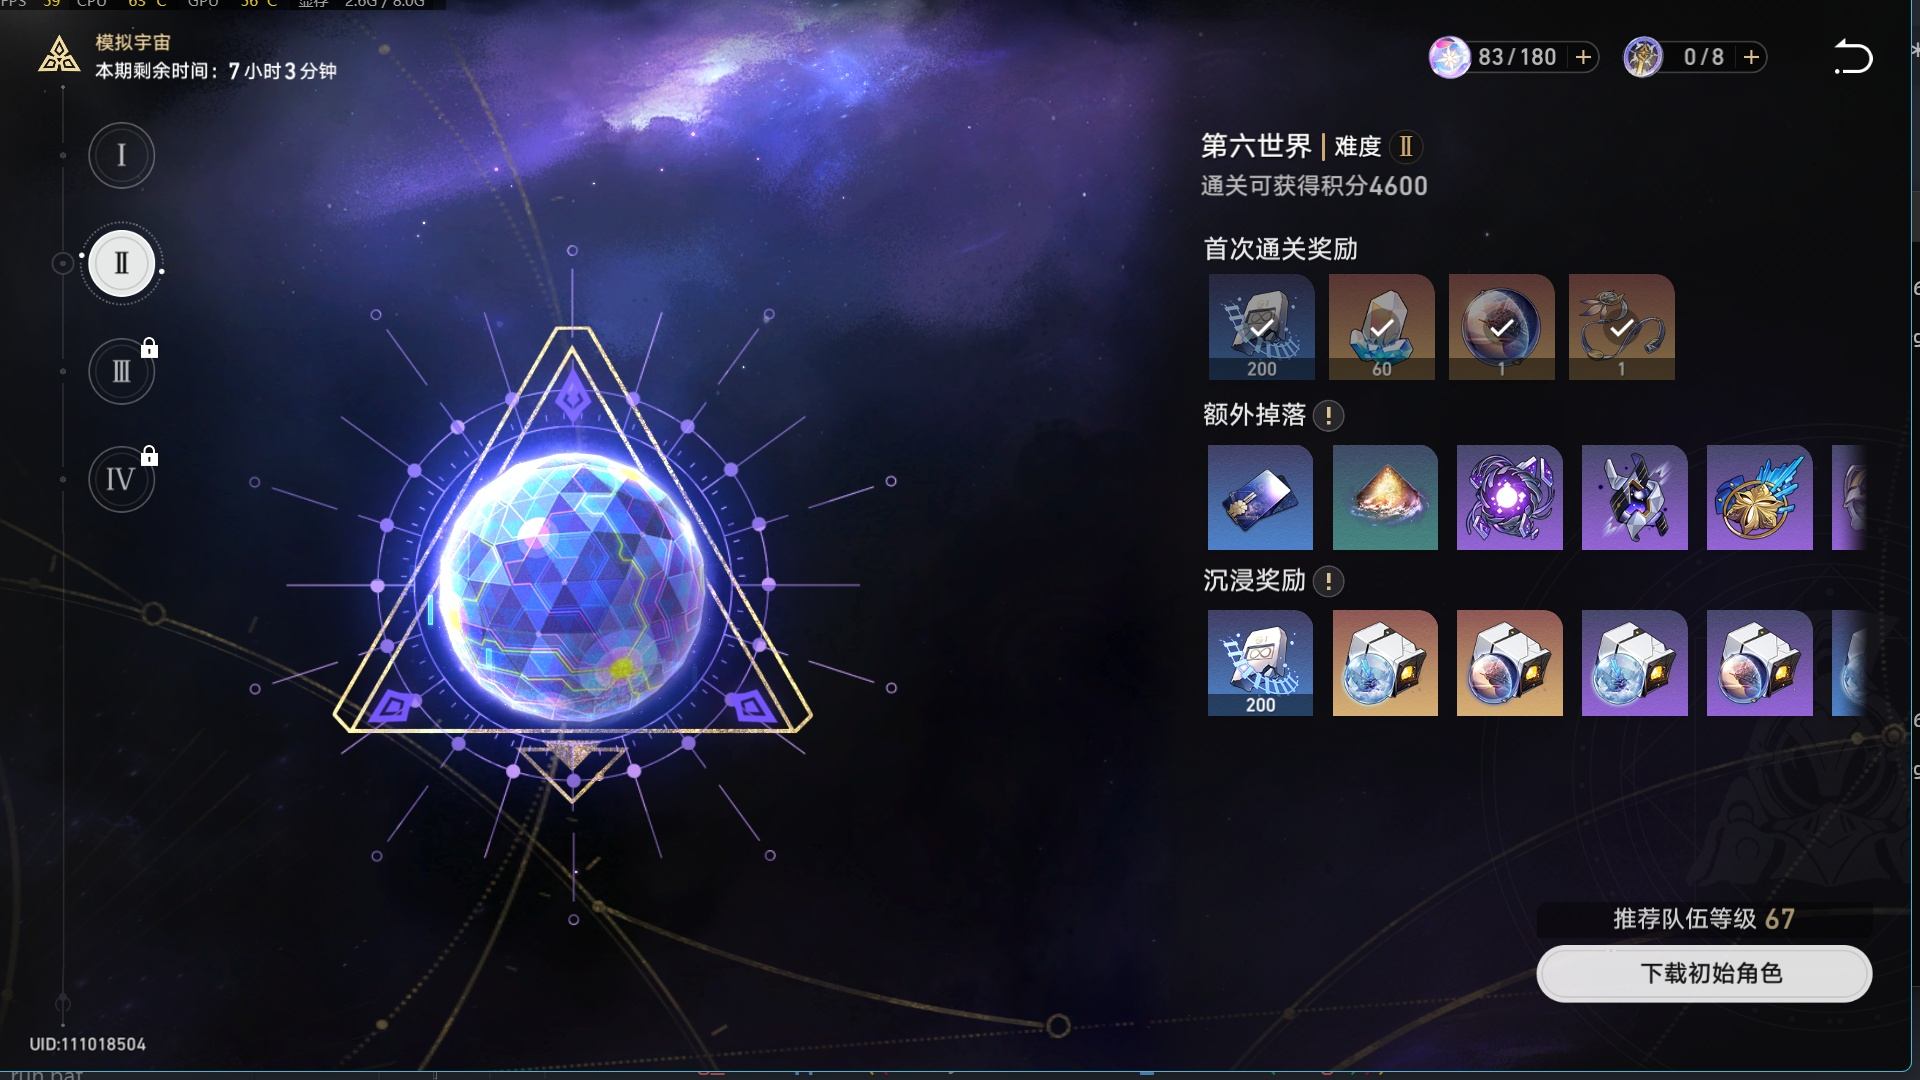
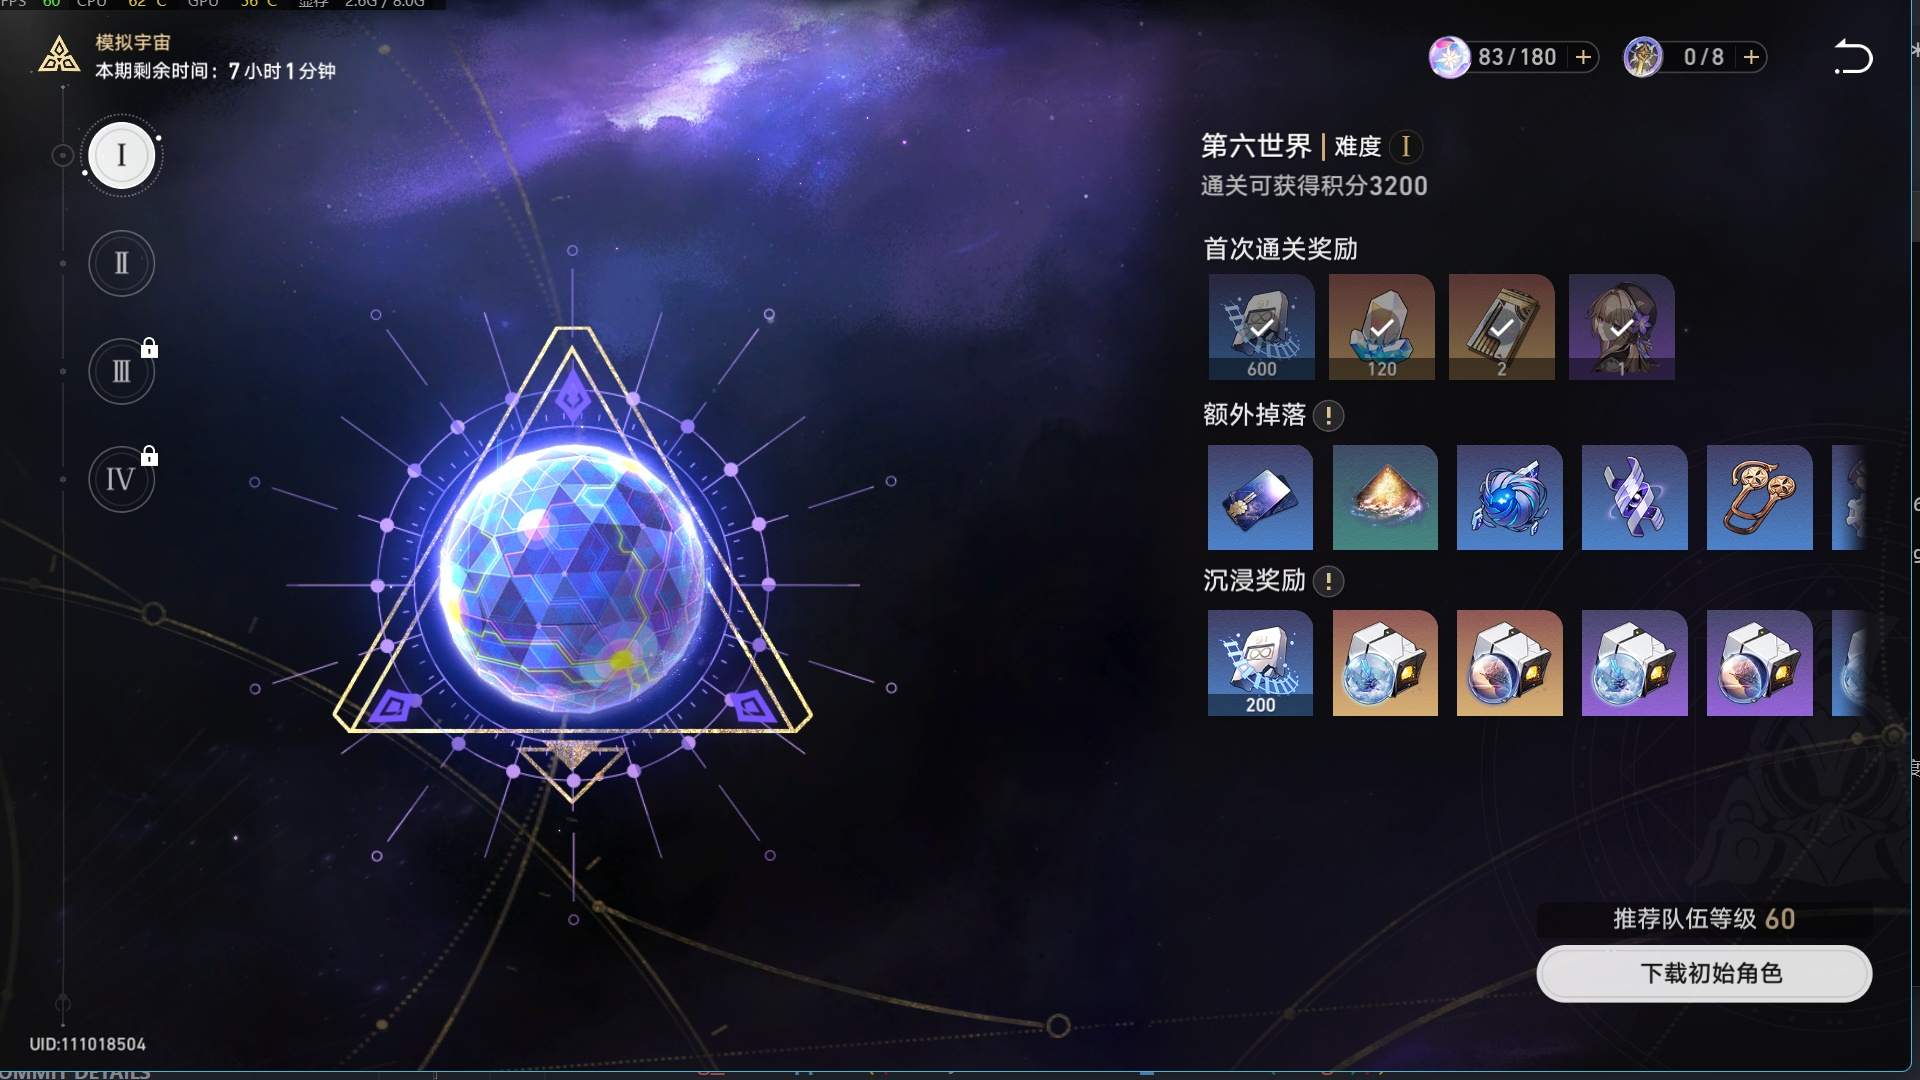
v3.7

diff --git a/states.py b/states.py
@@ -184,7 +184,7 @@ class SimulatedUniverse(UniverseUtils):
         elif self.check('init', 0.9276, 0.6731):
             self.click((0.3448, 0.4926))
         elif self.check('begin', 0.3339, 0.7741):
-            self.click((0.9375,0.8565-0.01*(self.diffi-1)))
+            self.click((0.9375,0.8565-0.1*(self.diffi-1)))
             self.click((0.1083, 0.1009))
         elif self.check('start', 0.6594, 0.8389):
             dx = 0.9266 - 0.8552
